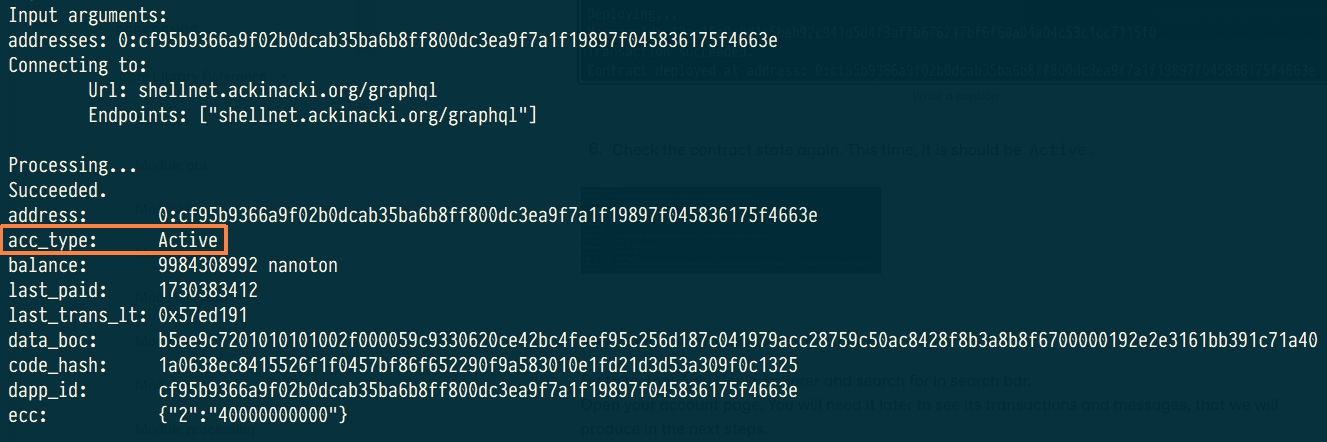
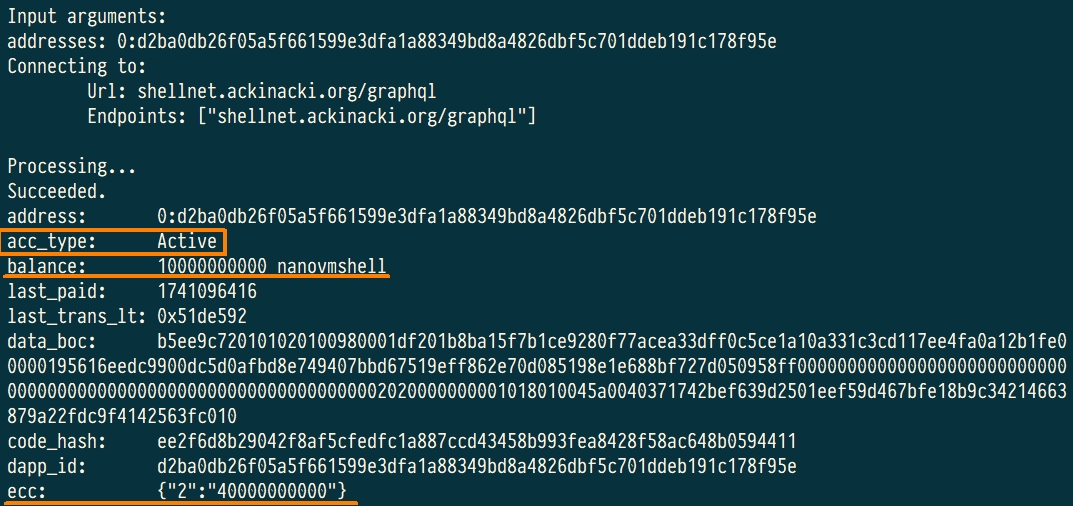
GITBOOK-38: changed images

Changed region(s): [[0.0, 0.0, 1.0, 1.0]]

diff --git a/docs/how-to-deploy-a-multisig-wallet.md b/docs/how-to-deploy-a-multisig-wallet.md
@@ -68,7 +68,7 @@ After this step, the `.tvc` file will be overwritten with the specified keys.
 
 The `raw address` is the future Multisig wallet address. Keys are saved to `multisig.keys.json`. Be sure to copy your seed phrase if you need it.
 
-<figure><img src=".gitbook/assets/raw addr (1).jpg" alt=""><figcaption></figcaption></figure>
+<figure><img src=".gitbook/assets/raw addr.jpg" alt=""><figcaption></figcaption></figure>
 
 ## **Request SHELL tokens** <a href="#request-test-tokens-for-future-use" id="request-test-tokens-for-future-use"></a>
 
@@ -92,7 +92,7 @@ tvm-cli account <YourAddress>
 The received SHELL tokens will be displayed in the `ecc` field.
 {% endhint %}
 
-<figure><img src=".gitbook/assets/uninit (2).jpg" alt=""><figcaption></figcaption></figure>
+<figure><img src=".gitbook/assets/uninit.jpg" alt=""><figcaption></figcaption></figure>
 
 Now you are ready to deploy your Multisig wallet using the following command:
 
@@ -120,14 +120,18 @@ From this amount, the deployment fee for the contract will be deducted, and the 
 
 Check the contract state again. This time, it should be `Active`.
 
-<figure><img src=".gitbook/assets/active (1).jpg" alt=""><figcaption></figcaption></figure>
+<figure><img src=".gitbook/assets/active.jpg" alt=""><figcaption></figcaption></figure>
+
+{% hint style="success" %}
+In the `balance` field, you can see **10,000,000,000** nanoVMSHELL tokens, which were converted from SHELL during deployment (as specified in the `value` parameter). The remaining SHELL tokens can be found in the `ecc` field at index **`2`**.
+{% endhint %}
 
 If you need VMSHELL tokens later, simply call the `exchangeToken(uint64 value)` method in the Multisig and exchange the required amount.\
 \
 For example, let's convert 10 SHELL tokens into 10 VMSHELL tokens:
 
 ```
-tvm-cli call 0:90c1fe4ab3a86a112e72a587fa14b89ecb2836da0b4ec465543dc0bb62df1430 exchangeToken '{"value":10000000000}' --abi multisig.abi.json --sign multisig.keys.json
+tvm-cli call 0:d2ba0db26f05a5f661599e3dfa1a88349bd8a4826dbf5c701ddeb191c178f95e exchangeToken '{"value":10000000000}' --abi multisig.abi.json --sign multisig.keys.json
 
 ```
 
@@ -159,13 +163,13 @@ In this case, the fees will be paid from the Multisig wallet's account
 {% endhint %}
 
 {% hint style="warning" %}
-In order for the recipient's contract to be deployed, its constructor must include a function for exchange SHELL tokens for VMSHELL
+In order for the recipient's contract to be deployed, its constructor must include a [function for exchange SHELL tokens for VMSHELL](https://github.com/tvmlabs/sdk-examples/blob/main/contracts/helloWorld/helloWorld.sol#L22)
 {% endhint %}
 
 For example, we transfer 5 SHELL from the Multisig wallet's balance to the address of the future contract, with the fees also being paid from the Multisig wallet's balance:
 
 ```
-tvm-cli call 0:90c1fe4ab3a86a112e72a587fa14b89ecb2836da0b4ec465543dc0bb62df1430 sendTransaction '{"dest":"0:2672bb98816f2f9088d027f99681b65e05843b19367fe690cb4b5130d04eccf1", "value":0, "bounce":false, "cc": {"2": 5000000000}, "flags": 1, "payload": ""}' --abi multisig.abi.json --sign multisig.keys.json
+tvm-cli call 0:d2ba0db26f05a5f661599e3dfa1a88349bd8a4826dbf5c701ddeb191c178f95e sendTransaction '{"dest":"0:2672bb98816f2f9088d027f99681b65e05843b19367fe690cb4b5130d04eccf1", "value":0, "bounce":false, "cc": {"2": 5000000000}, "flags": 1, "payload": ""}' --abi multisig.abi.json --sign multisig.keys.json
 ```
 
 \

diff --git a/docs/dapp-id-full-guide-creation-fees-centralized-replenishment.md b/docs/dapp-id-full-guide-creation-fees-centralized-replenishment.md
@@ -294,7 +294,7 @@ tvm-cli deploy --abi helloWorld.abi.json --sign helloWorld.keys.json helloWorld.
 
 6. Check the contract state again. This time, it is should be `Active`.
 
-<figure><img src=".gitbook/assets/active.jpg" alt=""><figcaption></figcaption></figure>
+<figure><img src=".gitbook/assets/active (2).jpg" alt=""><figcaption></figcaption></figure>
 
 **View contract information with Explorer**
 

diff --git a/docs/quick-starts/quick-start-tvm-sdk-javascript.md b/docs/quick-starts/quick-start-tvm-sdk-javascript.md
@@ -2,7 +2,7 @@
 
 ### **Prerequisites**
 
-* Rust v1.76+
+* Rust v1.85+
 * Node.js v18.19.1
 * Python 3
 * Python 3 setuptools
